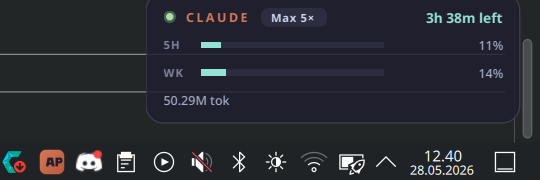
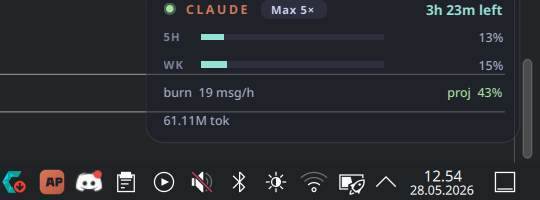
Add session burn-rate row to the HUD
Shows messages/hour averaged over the active 5-hour session plus a
projection of total session usage at reset if the current rate
continues. Projection colour:
  * < 80%  green
  * 80-99% amber
  * >= 100% red

Rate is suppressed for the first minute of a session (sample too
noisy) and hidden entirely when no session is active. Toggleable via
"Show burnrate" in the tray right-click menu (default on); persists to
config.

diff --git a/overlay.py b/overlay.py
@@ -91,6 +91,18 @@ class Overlay(QWidget):
             self._make_bar_row("WK")
         outer.addLayout(self.week_row)
 
+        # burn rate row
+        self.burn_row = QHBoxLayout()
+        self.burn_row.setSpacing(0)
+        self.burn_lbl = QLabel("burn —")
+        self.burn_lbl.setObjectName("HudMeta")
+        self.burn_row.addWidget(self.burn_lbl)
+        self.burn_row.addStretch()
+        self.burn_proj_lbl = QLabel("")
+        self.burn_proj_lbl.setObjectName("HudMeta")
+        self.burn_row.addWidget(self.burn_proj_lbl)
+        outer.addLayout(self.burn_row)
+
         # bottom row: tokens · cost
         bot = QHBoxLayout()
         bot.setSpacing(0)
@@ -141,7 +153,8 @@ class Overlay(QWidget):
 
     # ---------- update ----------
     def update_view(self, snap: Snapshot, plan_key: str, *,
-                    show_tokens: bool, show_cost: bool, display_mode: str) -> None:
+                    show_tokens: bool, show_cost: bool, show_burnrate: bool,
+                    display_mode: str) -> None:
         plan = PLAN_LIMITS.get(plan_key, PLAN_LIMITS["max5"])
         self.plan_lbl.setText(plan["label"])
 
@@ -186,6 +199,27 @@ class Overlay(QWidget):
         self.cost_lbl.setText(f"${snap.session.cost:.2f}")
         self.tok_lbl.setVisible(show_tokens)
         self.cost_lbl.setVisible(show_cost)
+
+        # burn rate
+        show_burn = show_burnrate and snap.session_active and snap.session_msg_per_hour > 0
+        self.burn_lbl.setVisible(show_burn)
+        self.burn_proj_lbl.setVisible(show_burn)
+        if show_burn:
+            rate = snap.session_msg_per_hour
+            self.burn_lbl.setText(f"burn  {rate:.0f} msg/h")
+            if cap and snap.session_reset:
+                remaining_h = (snap.session_reset - snap.now).total_seconds() / 3600.0
+                projected_msgs = snap.session.messages + rate * remaining_h
+                proj_pct = int(projected_msgs / cap * 100)
+                colour = "#a6e3a1"                  # green
+                if proj_pct >= 100:
+                    colour = "#f38ba8"              # red
+                elif proj_pct >= 80:
+                    colour = "#f9e2af"              # amber
+                self.burn_proj_lbl.setText(f"proj  {proj_pct}%")
+                self.burn_proj_lbl.setStyleSheet(f"color: {colour};")
+            else:
+                self.burn_proj_lbl.setText("")
 
         self.adjustSize()
 

diff --git a/usage.py b/usage.py
@@ -79,6 +79,9 @@ class Snapshot:
     week_minutes_sonnet: float = 0.0
     week_minutes_haiku: float = 0.0
     week_reset_at: datetime | None = None  # rolling 7d reset point
+    # burn rate over the active session (averaged from session_start to now)
+    session_msg_per_hour: float = 0.0
+    session_tok_per_hour: float = 0.0
 
 
 def _decode_project_dir(name: str) -> str:
@@ -236,6 +239,16 @@ def compute(now: datetime | None = None) -> Snapshot:
         if e.ts >= week_start:
             week.add(e)
 
+    # Session-average burn rate. Need at least 60s elapsed before the rate is
+    # meaningful — below that, one or two messages give wildly noisy numbers.
+    msg_per_hour = 0.0
+    tok_per_hour = 0.0
+    if session_active and session_start is not None:
+        elapsed_h = (now - session_start).total_seconds() / 3600.0
+        if elapsed_h >= (60 / 3600):
+            msg_per_hour = session.messages / elapsed_h
+            tok_per_hour = session.total_tokens / elapsed_h
+
     active = _active_minutes_by_family(entries, week_start)
     # Rolling 7-day window: it "resets" continuously. We surface the moment
     # the oldest minute drops off — i.e. earliest-in-window timestamp + 7d.
@@ -255,6 +268,8 @@ def compute(now: datetime | None = None) -> Snapshot:
         week_minutes_sonnet=active["sonnet"],
         week_minutes_haiku=active["haiku"],
         week_reset_at=week_reset_at,
+        session_msg_per_hour=msg_per_hour,
+        session_tok_per_hour=tok_per_hour,
     )
 
 

diff --git a/tray.py b/tray.py
@@ -87,6 +87,11 @@ class HudApp:
         self._cost_act.triggered.connect(
             lambda c: self._set_flag("show_cost", c))
         menu.addAction(self._cost_act)
+        self._burn_act = QAction("Show burnrate", self.tray, checkable=True)
+        self._burn_act.setChecked(bool(self.cfg["show_burnrate"]))
+        self._burn_act.triggered.connect(
+            lambda c: self._set_flag("show_burnrate", c))
+        menu.addAction(self._burn_act)
         menu.addSeparator()
 
         # Opacity (DBusMenu can't transport an embedded slider, so it lives as
@@ -169,6 +174,7 @@ class HudApp:
             self.cfg["plan"],
             show_tokens=bool(self.cfg["show_tokens"]),
             show_cost=bool(self.cfg["show_cost"]),
+            show_burnrate=bool(self.cfg["show_burnrate"]),
             display_mode=str(self.cfg["display_mode"]),
         )
         self._update_tooltip()

diff --git a/config.py b/config.py
@@ -12,6 +12,7 @@ DEFAULT: dict = {
     "refresh_seconds": 30,
     "show_tokens": True,
     "show_cost": True,
+    "show_burnrate": True,
     "display_mode": "percent",  # percent | raw | both
     "opacity": 0.84,         # 0.30 .. 1.00
     "corner": "tr",          # tr | tl | br | bl  — used when no saved position
@@ -44,6 +45,7 @@ def save(cfg: dict) -> None:
         f"refresh_seconds = {int(cfg['refresh_seconds'])}",
         f"show_tokens = {'true' if cfg['show_tokens'] else 'false'}",
         f"show_cost = {'true' if cfg['show_cost'] else 'false'}",
+        f"show_burnrate = {'true' if cfg['show_burnrate'] else 'false'}",
         f'display_mode = "{cfg["display_mode"]}"',
         f"opacity = {float(cfg['opacity']):.2f}",
         f'corner = "{cfg["corner"]}"',